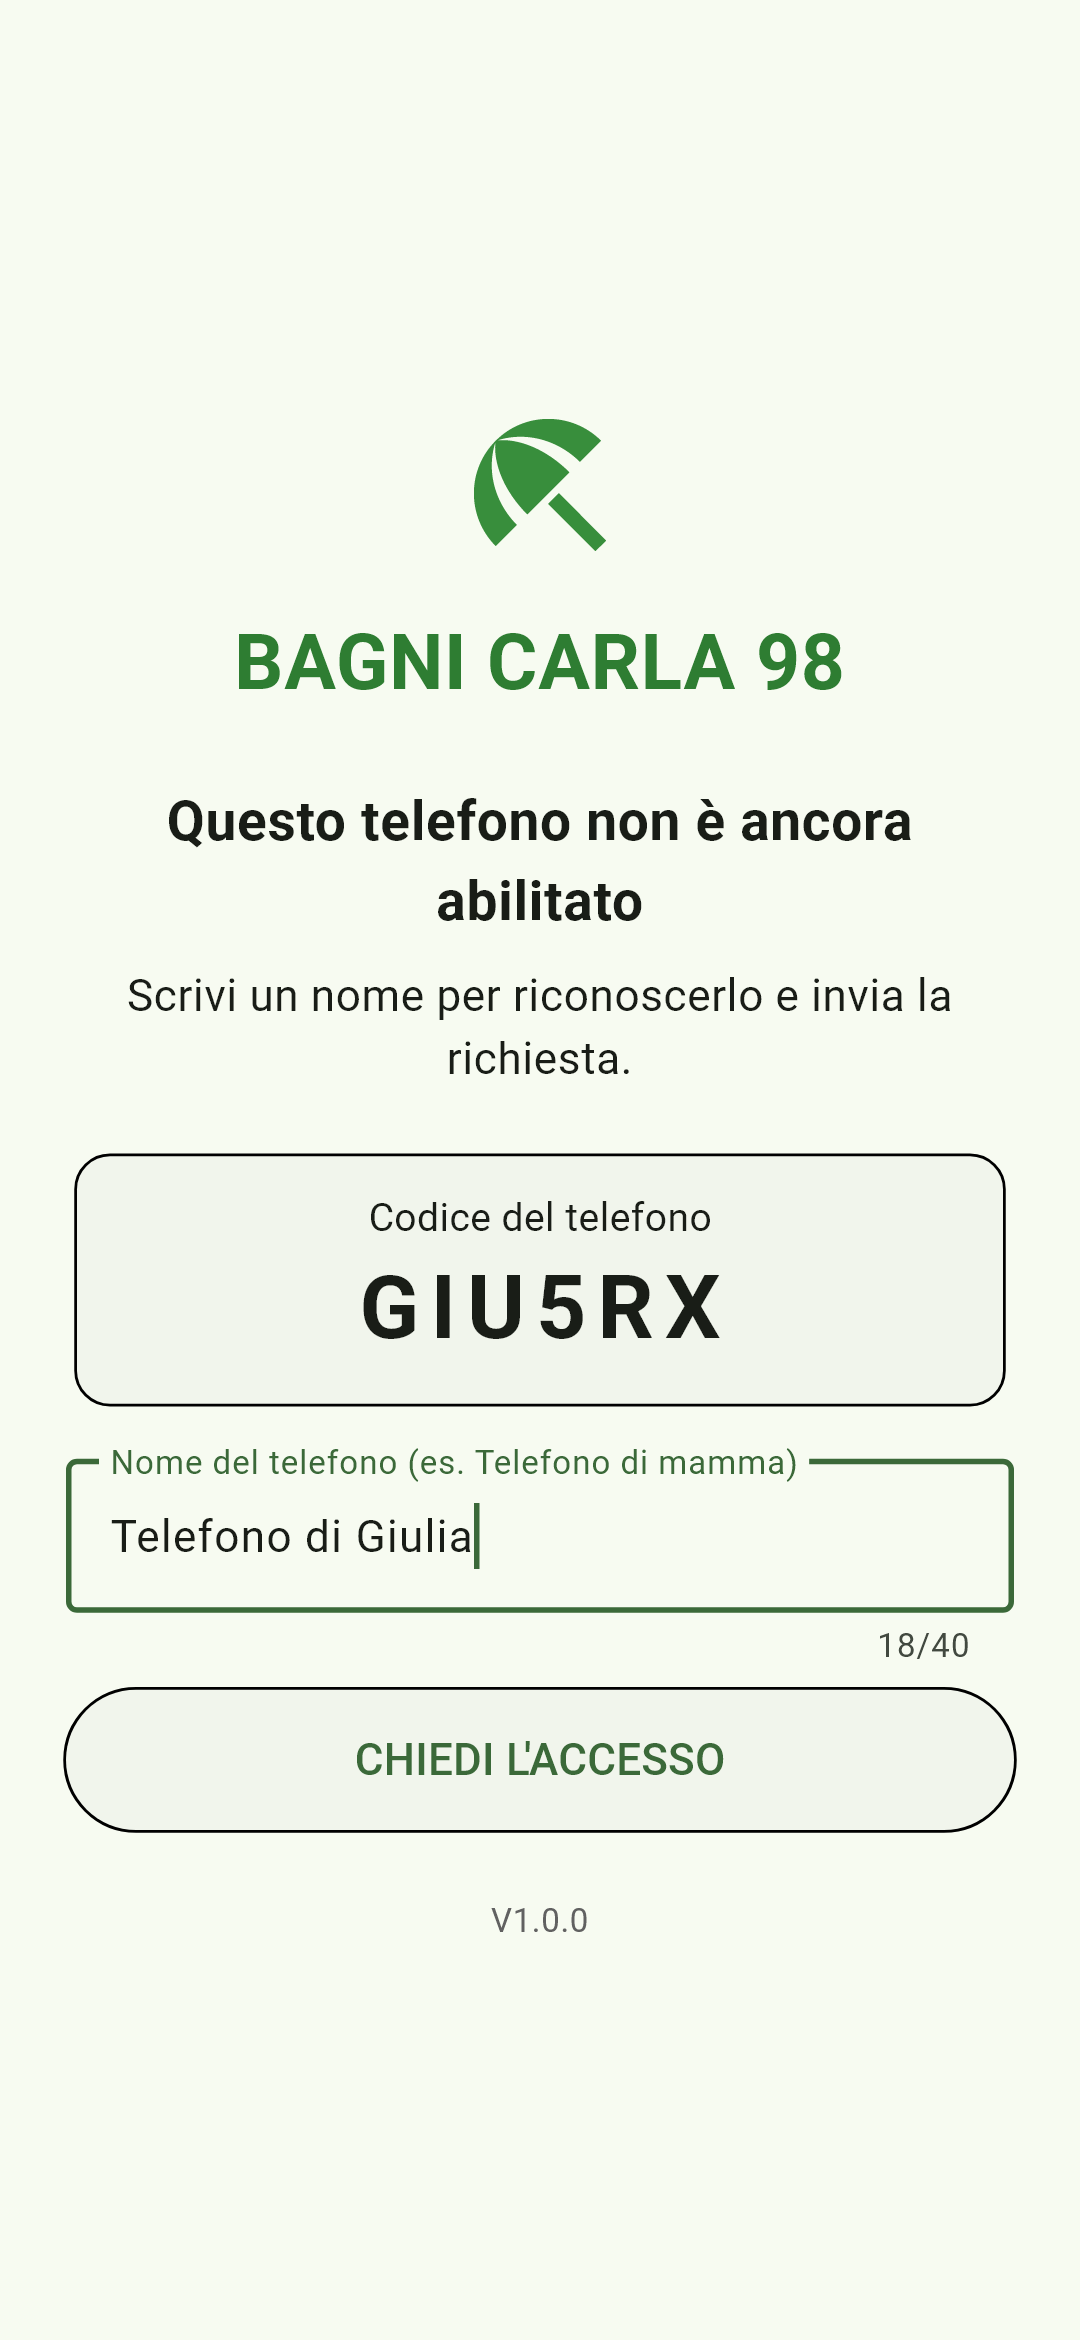
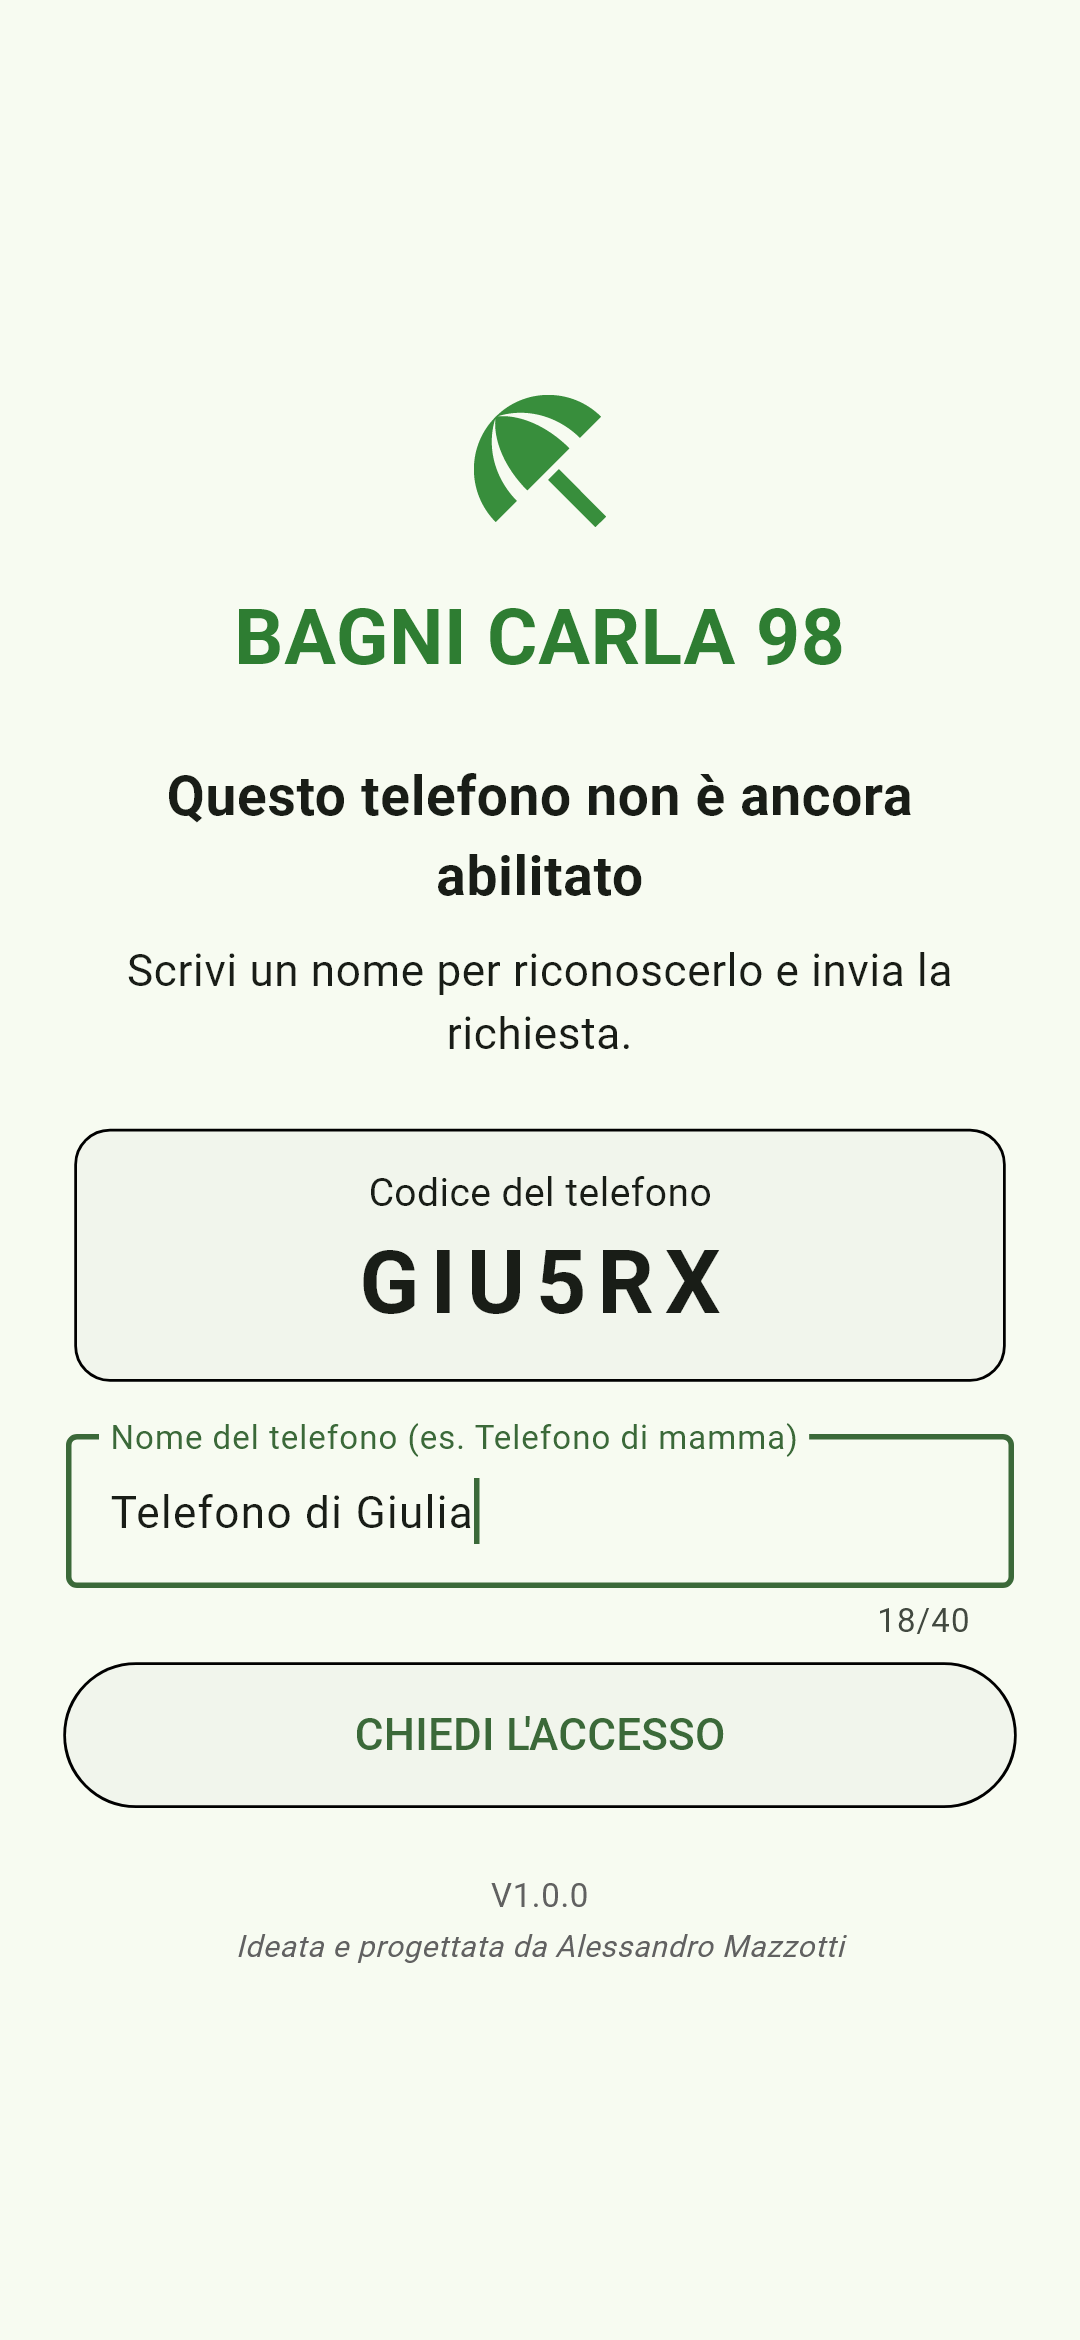
Firma "Ideata e progettata da Alessandro Mazzotti" sotto la versione

diff --git a/applicazione_gestionale/lib/app_version.dart b/applicazione_gestionale/lib/app_version.dart
@@ -5,7 +5,10 @@ import 'package:package_info_plus/package_info_plus.dart';
 /// Il numero viene da `version:` in pubspec.yaml, aggiornato in automatico da `rilascia.bat`.
 String formatVersion(String version) => 'V${version.split('+').first}';
 
-/// Scritta piccola con la versione, da mettere in fondo alle schermate.
+/// Firma dell'autore, in fondo alle schermate sotto la versione.
+const String authorCredit = 'Ideata e progettata da Alessandro Mazzotti';
+
+/// Versione e firma dell'autore in piccolo, da mettere in fondo alle schermate.
 class AppVersionText extends StatefulWidget {
   final Color? color;
   const AppVersionText({super.key, this.color});
@@ -19,15 +22,25 @@ class _AppVersionTextState extends State<AppVersionText> {
 
   @override
   Widget build(BuildContext context) {
+    final color = widget.color ?? Colors.grey.shade700;
     return FutureBuilder<PackageInfo>(
       future: _info,
       builder: (context, snapshot) {
         final version = snapshot.data?.version;
-        if (version == null || version.isEmpty) return const SizedBox(height: 16);
-        return Text(
-          formatVersion(version),
-          textAlign: TextAlign.center,
-          style: TextStyle(fontSize: 12, color: widget.color ?? Colors.grey.shade700),
+        return Column(
+          mainAxisSize: MainAxisSize.min,
+          children: [
+            if (version == null || version.isEmpty)
+              const SizedBox(height: 16)
+            else
+              Text(formatVersion(version), textAlign: TextAlign.center, style: TextStyle(fontSize: 12, color: color)),
+            const SizedBox(height: 2),
+            Text(
+              authorCredit,
+              textAlign: TextAlign.center,
+              style: TextStyle(fontSize: 11, fontStyle: FontStyle.italic, color: color),
+            ),
+          ],
         );
       },
     );

diff --git a/applicazione_gestionale/test/app_version_test.dart b/applicazione_gestionale/test/app_version_test.dart
@@ -15,5 +15,8 @@ void main() {
     await tester.pumpWidget(const MaterialApp(home: Scaffold(body: AppVersionText())));
     await tester.pumpAndSettle();
     expect(find.text('V1.2.3'), findsOneWidget);
+    expect(find.text('Ideata e progettata da Alessandro Mazzotti'), findsOneWidget);
+    final credit = tester.widget<Text>(find.text(authorCredit));
+    expect(credit.style?.fontStyle, FontStyle.italic);
   });
 }
